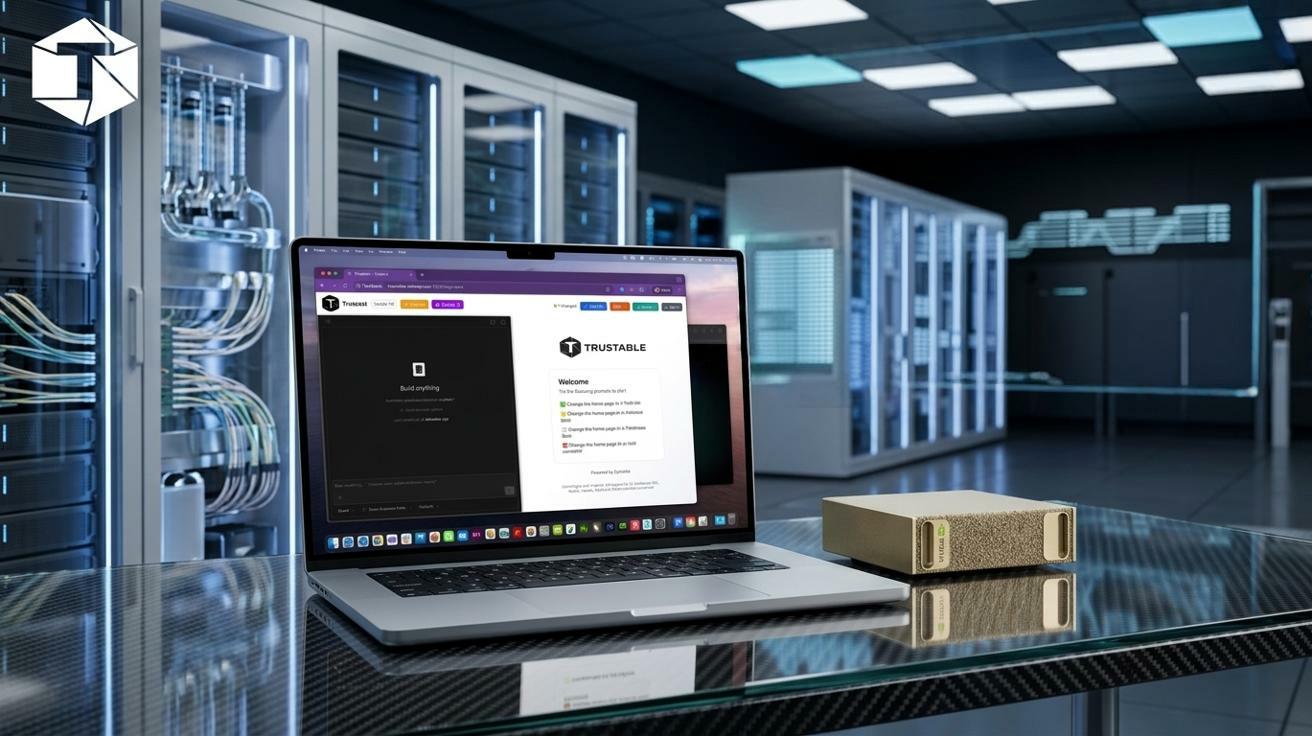
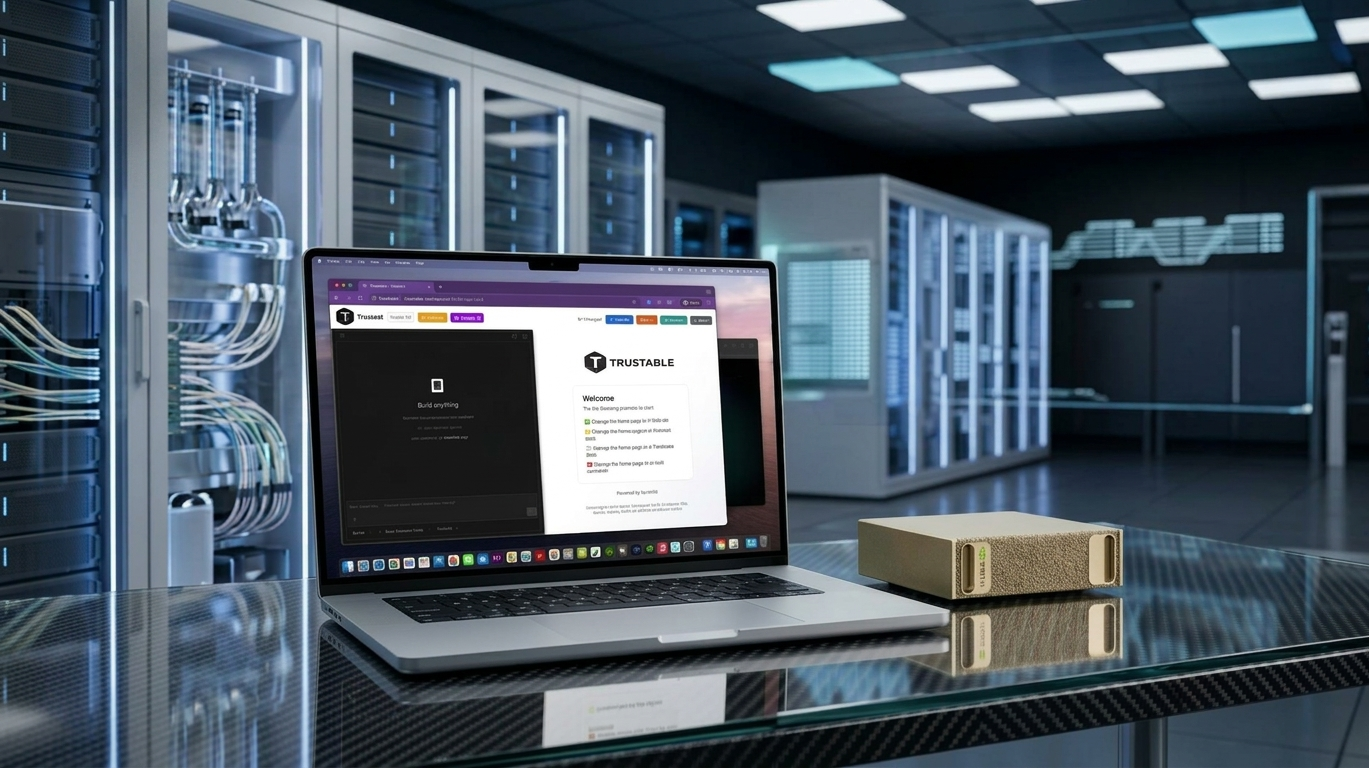
update

diff --git a/index.html b/index.html
@@ -59,28 +59,59 @@
 
       .hero__copy {
         position: absolute;
-        top: clamp(28px, 4.1vw, 42px);
-        left: clamp(142px, 12vw, 164px);
+        top: clamp(26px, 3.8vw, 44px);
+        left: clamp(28px, 4.5vw, 56px);
         z-index: 2;
-        width: calc(100vw - clamp(142px, 12vw, 164px) - 28px);
-        text-shadow: 0 3px 18px rgba(0, 0, 0, 0.58);
+        display: flex;
+        gap: clamp(18px, 2.6vw, 34px);
+        align-items: center;
+        width: calc(100vw - clamp(28px, 4.5vw, 56px) * 2);
+      }
+
+      .brand {
+        display: flex;
+        flex: 0 0 auto;
+        gap: clamp(8px, 1vw, 12px);
+        align-items: center;
+        color: #050505;
+        text-shadow: 0 1px 12px rgba(255, 255, 255, 0.45);
+      }
+
+      .brand__logo {
+        display: block;
+        width: clamp(52px, 6.1vw, 82px);
+        height: auto;
+      }
+
+      .brand__name {
+        font-size: clamp(24px, 3vw, 42px);
+        font-weight: 820;
+        line-height: 1;
+        letter-spacing: 0;
       }
 
       .hero__title {
         display: flex;
-        gap: 0.32em;
+        flex: 1 1 auto;
+        min-width: 0;
+        gap: 0.3em;
         align-items: baseline;
         margin: 0;
         color: #fff;
-        font-size: clamp(24px, 3vw, 44px);
+        font-size: clamp(23px, 2.7vw, 40px);
         font-weight: 780;
         line-height: 1.04;
         letter-spacing: 0;
-        white-space: nowrap;
+        text-shadow: 0 3px 18px rgba(0, 0, 0, 0.62);
       }
 
       .hero__accent {
+        flex: 0 0 auto;
         color: #ffd64d;
+      }
+
+      .hero__main {
+        min-width: 0;
       }
 
       @media (orientation: portrait), (max-width: 720px) {
@@ -99,26 +130,44 @@
         }
 
         .hero__copy {
-          top: clamp(150px, 14vh, 196px);
+          top: clamp(28px, 4.5vh, 48px);
           left: 50%;
-          width: min(88vw, 620px);
+          flex-direction: column;
+          gap: clamp(16px, 2.4vh, 28px);
+          width: min(88vw, 520px);
           transform: translateX(-50%);
           text-align: center;
         }
 
+        .brand {
+          flex-direction: column;
+          gap: 8px;
+        }
+
+        .brand__logo {
+          width: clamp(76px, 17vw, 118px);
+        }
+
+        .brand__name {
+          font-size: clamp(30px, 8vw, 54px);
+        }
+
         .hero__title {
           flex-direction: column;
-          gap: 0.08em;
+          gap: 0.1em;
           align-items: center;
-          font-size: clamp(38px, 11vw, 72px);
+          font-size: clamp(34px, 9.4vw, 66px);
           line-height: 1;
-          white-space: normal;
         }
       }
 
       @media (max-width: 420px) {
         .hero__copy {
-          width: min(86vw, 360px);
+          width: min(88vw, 360px);
+        }
+
+        .hero__title {
+          font-size: clamp(30px, 9vw, 38px);
         }
       }
     </style>
@@ -134,8 +183,13 @@
       </picture>
 
       <section class="hero__copy" aria-labelledby="hero-title">
+        <div class="brand" aria-label="Trustable">
+          <img class="brand__logo" src="trustable-logo.svg" alt="">
+          <span class="brand__name">Trustable</span>
+        </div>
+
         <h1 class="hero__title" id="hero-title">
-          <span>Lovable-like experience</span>
+          <span class="hero__main">Lovable-like experience</span>
           <span class="hero__accent">for Private AI</span>
         </h1>
       </section>

diff --git a/spec.md b/spec.md
@@ -1,5 +1,10 @@
 ![[desktop.png]]![[mobile.png]]
 
-create index.html responsive for desktop and mobile add the text "Lovable-like experience" white  "for Private AI" yellow 
-- on desktop is fixed aligned to the logo  on top horizontal
-- on mobile is centered, aligned to the top, vertical
+![[docs/trustable-website/landingpage/trustable-logo.svg]]
+
+create an index.html responsive , showing the background desktop or mobile when approriate
+the logo and the text "Trustable" black
+then  the text  "Lovable-like experience" white 
+then "for Private AI" yellow 
+
+make the text flow properly on desktop and mobile
